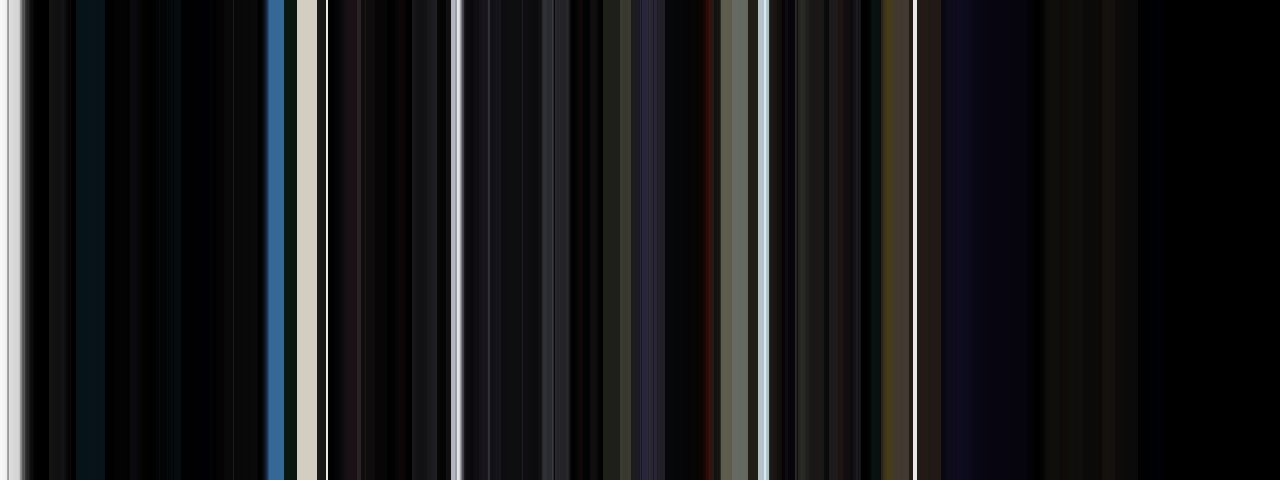
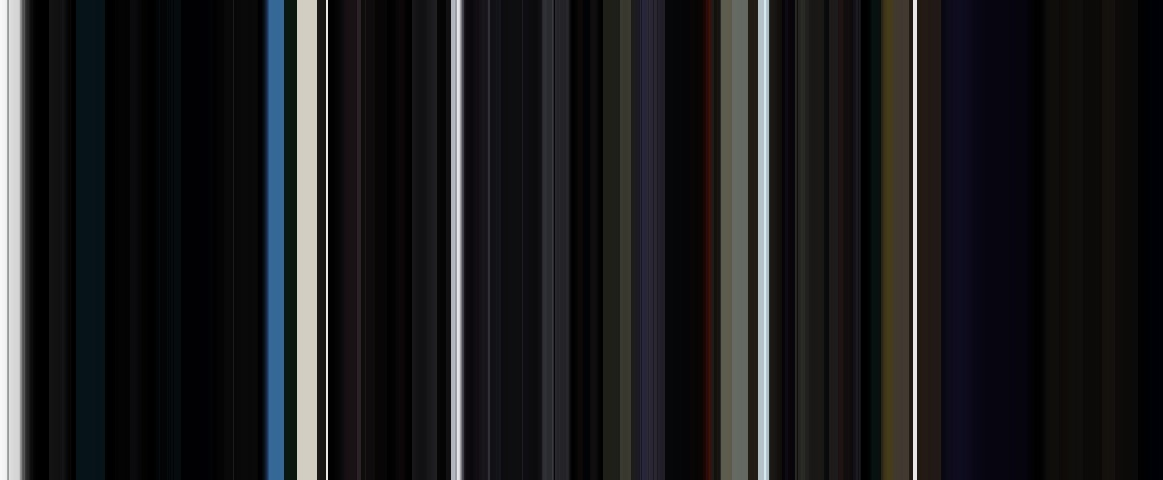
Remove end credits black color

diff --git a/moviebarcode.py b/moviebarcode.py
@@ -118,6 +118,19 @@ def getBlackBarHeight(img):
         logger.info("width: {}".format(width))
         exit(1)
 
+@profile
+def removeEndCreditBlackColor(img):
+    height      = img.shape[0]
+    width       = img.shape[1]
+    pixel_value = 0
+    start       = int(height/2)
+    i           = 0
+    while(pixel_value < 5):
+        pixel_value = img[start,width-1-i,0]
+        i = i + 1
+    croped_img = img[0:height,0:width-i]
+    return croped_img
+
 @profile 
 def create_frameline(video_path, output_image_path):
     try:
@@ -173,7 +186,9 @@ def create_frameline(video_path, output_image_path):
             blank_image[:,counter,1] = int(colour[1]) # G
             blank_image[:,counter,2] = int(colour[2]) # R
             counter = counter + 1
-        cv2.imwrite(output_image_path, blank_image)
+        # remove end credits black color
+        output_img = removeEndCreditBlackColor(blank_image)
+        cv2.imwrite(output_image_path, output_img)
     except Exception as e:
         logger.info('Something went wrong... Oopsie!')
         logger.info(str(e))
